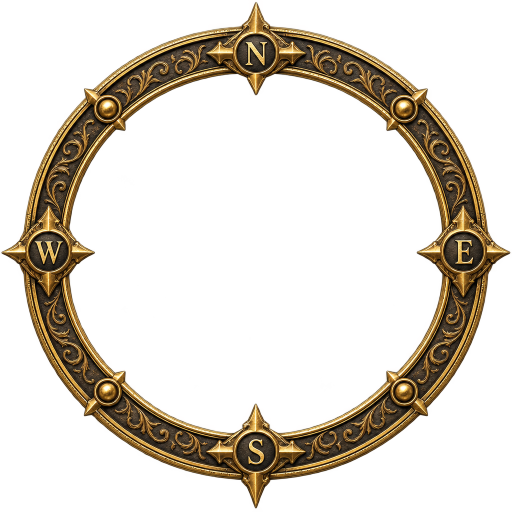
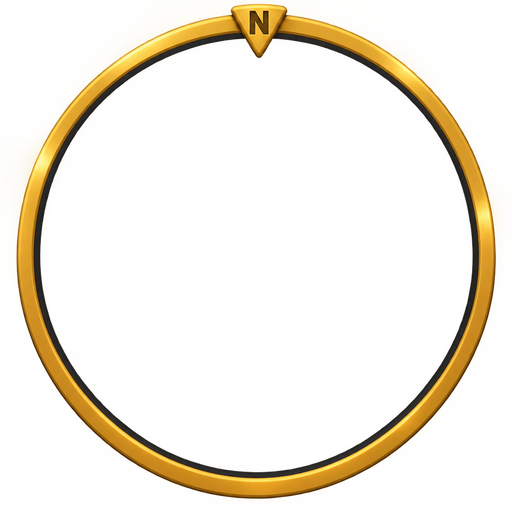
Hero HUD art: the orbs get their own clean gold socket rings (a ruby on health's, a sapphire on mana's, a bracket below) instead of the minimap's ring, and the minimap a slim clean frame with only an N pointer (the filigree read as noise when small); each opening centred at a set share of its pictur

Changed region(s): [[0.0, 0.0, 1.0, 1.0]]

diff --git a/Assets/Scripts/UI/Toolkit/HeroHudView.cs b/Assets/Scripts/UI/Toolkit/HeroHudView.cs
@@ -301,10 +301,10 @@ namespace Shinobytes.UI
             text.AddToClassList("rf-hero-orb__text");
             var name = new Label(label) { pickingMode = PickingMode.Ignore };
             name.AddToClassList("rf-hero-orb__label");
-            // the orb sits in a gilded socket ring (the minimap frame's style), the number on top
+            // the orb sits in its own gold socket ring (a ruby on health's, a sapphire on mana's), the number on top
             var socket = new VisualElement { pickingMode = PickingMode.Ignore };
             socket.AddToClassList("rf-hero-orb__socket");
-            var ring = Resources.Load<Texture2D>("HeroUI/orb-socket");
+            var ring = Resources.Load<Texture2D>(kind == "rf-hero-orb--health" ? "HeroUI/orb-health" : "HeroUI/orb-mana");
             if (ring) socket.style.backgroundImage = new StyleBackground(ring);
             box.Add(orb.Sphere);
             box.Add(socket);
